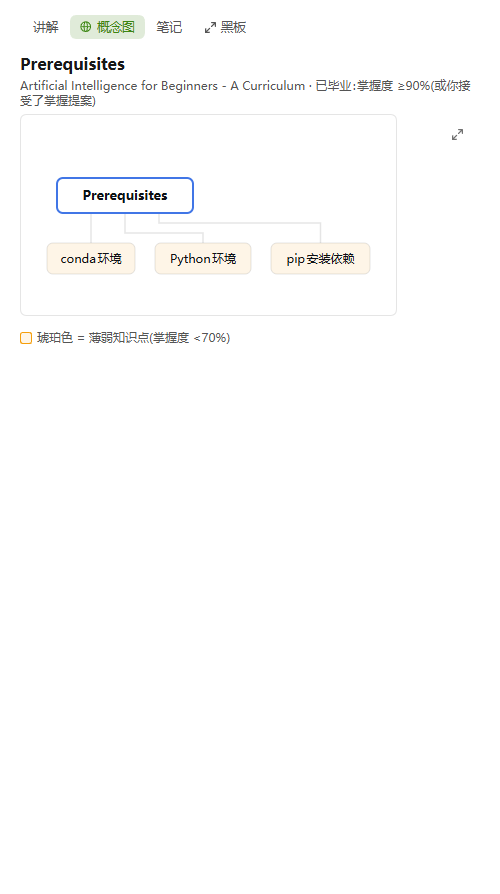
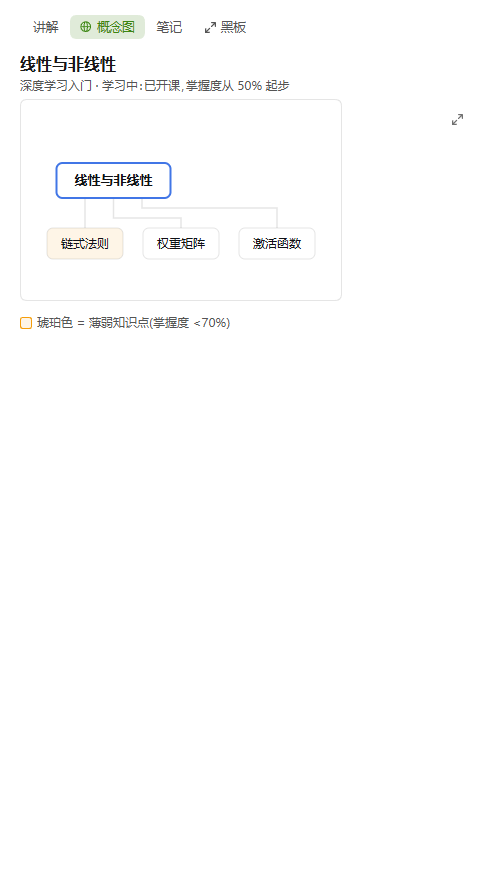
docs: a clean screenshot playground + an even gallery layout — scripts/seed-demo-state.mjs now feeds the shots (a fresh 深度学习入门 demo course minted through the real state paths: progress variety, weak concepts, a 2-star exam, a due review, bilingual interleave; ZERO test threads/attachment noise — the

diff --git a/README.md b/README.md
@@ -11,10 +11,12 @@ Turn any markdown document, local folder, or GitHub learning repository into a g
 </p>
 <p align="center"><b>The 学习 panel</b> — LookatStudy's UI 1:1 in the host's light theme (the panel follows the host's dark/light switch live): the floating XP/streak app header, the three-column surface ladder (rail / chat / notebook, depth by color step), 3D push-down buttons, and the chat's typing dots; opened from the sidebar's 学习 row.</p>
 
-| 课程栏 | 讲解 | 🕸 概念图 |
-|---|---|---|
-| <img src="docs/media/course-rail.png" width="100%" alt="Course rail list"> | <img src="docs/media/blackboard-lesson.png" width="100%" alt="讲解 lesson page"> | <img src="docs/media/concept-map.png" width="100%" alt="Concept map"> |
-| **课程栏** — the course tree as a quiet list (a deliberate deviation from upstream's gamified map): collapsible section heads with done/total counts, lesson rows carrying the status glyph (locked / available / in-progress / mastered crown / purple exam), inline mastery bars, due badges, streaming spinners, and hover tooltips that explain every state; the focused row is brand-edged. | **讲解** — server-sanitized markdown rendered rich on demand: KaTeX formulas, syntax-highlighted code (shared copy-to-clipboard blocks), mermaid diagrams with a zoomable canvas stage (CDN loaders, silent degrade offline). | **🕸 概念图** — the lesson's knowledge components laid out as a draw.io-style concept graph (bundled ELK layout, no external service). |
+<p align="center">
+  <img src="docs/media/course-rail.png" alt="Course rail list" height="440">
+  <img src="docs/media/blackboard-lesson.png" alt="讲解 lesson page" height="440">
+  <img src="docs/media/concept-map.png" alt="Concept map" height="440">
+</p>
+<p align="center"><b>课程栏</b> — the course tree as a quiet list: status glyphs, inline mastery bars, due badges, everything hover-explained &nbsp;·&nbsp; <b>讲解</b> — server-sanitized markdown rendered rich on demand: KaTeX, syntax-highlighted code, mermaid &nbsp;·&nbsp; <b>🕸 概念图</b> — the lesson's knowledge components as a graph, weak ones amber.</p>
 
 ## Install
 

diff --git a/README.zh-CN.md b/README.zh-CN.md
@@ -11,10 +11,12 @@
 </p>
 <p align="center"><b>「学习」面板</b> — 1:1 复刻 LookatStudy 的 UI（面板实时跟随宿主的深浅色切换）：悬浮的 XP/连击应用头、三栏表面阶梯（课程栏 / 导师 / 黑板，按色阶递进）、3D 按压式按钮、对话中的打字动画；从侧栏的「学习」行打开。</p>
 
-| 课程栏 | 讲解 | 🕸 概念图 |
-|---|---|---|
-| <img src="docs/media/course-rail.png" width="100%" alt="课程栏列表"> | <img src="docs/media/blackboard-lesson.png" width="100%" alt="讲解课程页"> | <img src="docs/media/concept-map.png" width="100%" alt="概念图"> |
-| **课程栏** — 课程树收敛为安静的列表（有意偏离上游的游戏化地图）：可折叠的章节头带完成/总数，课时行携带状态角标（锁定 / 可学 / 进行中 / 已掌握皇冠 / 紫色考试），行内掌握度进度条、到期徽标、流式转圈，每种状态都有悬停解释；聚焦行品牌色描边。 | **讲解** — 服务端消毒后的 Markdown 按需富渲染：KaTeX 公式、语法高亮代码（共享的复制按钮代码块）、mermaid 图带可缩放画布舞台（CDN 加载，离线静默降级）。 | **🕸 概念图** — 本课的知识组件排布成 draw.io 风格的概念图（内置 ELK 布局，无外部服务）。 |
+<p align="center">
+  <img src="docs/media/course-rail.png" alt="课程栏列表" height="440">
+  <img src="docs/media/blackboard-lesson.png" alt="讲解课程页" height="440">
+  <img src="docs/media/concept-map.png" alt="概念图" height="440">
+</p>
+<p align="center"><b>课程栏</b> — 课程树收敛为安静的列表：状态角标、行内掌握度条、到期徽标，处处有悬停说明 &nbsp;·&nbsp; <b>讲解</b> — 服务端消毒后的 Markdown 按需富渲染：KaTeX、语法高亮代码、mermaid &nbsp;·&nbsp; <b>🕸 概念图</b> — 本课知识组件排成概念图，弱项琥珀色标出。</p>
 
 ## 安装
 
